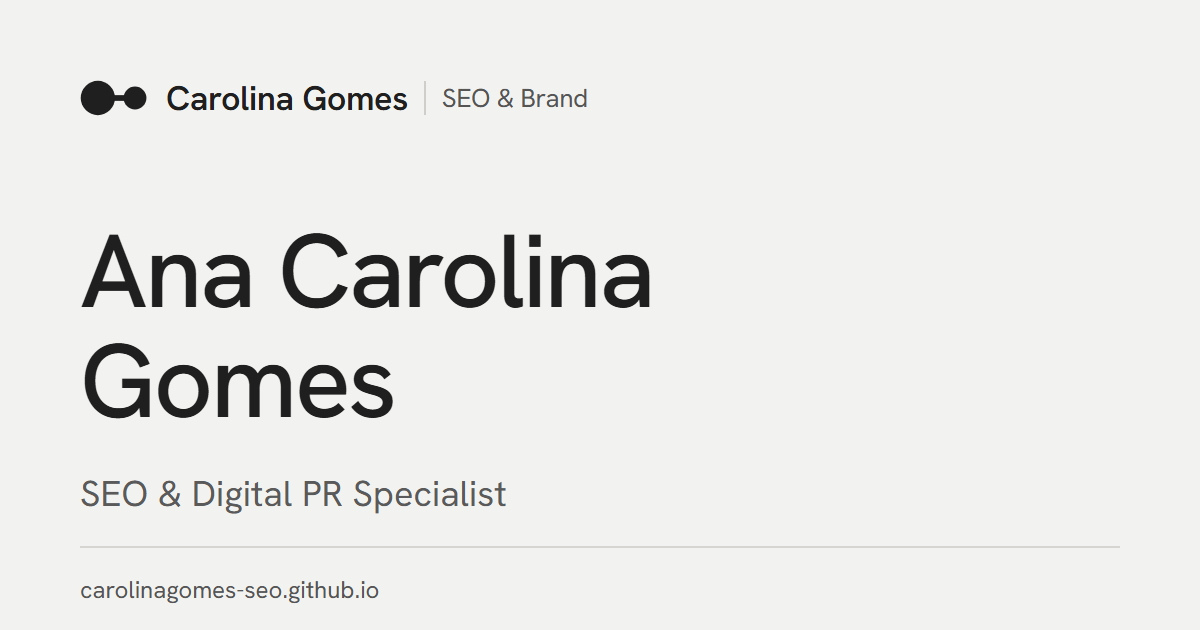
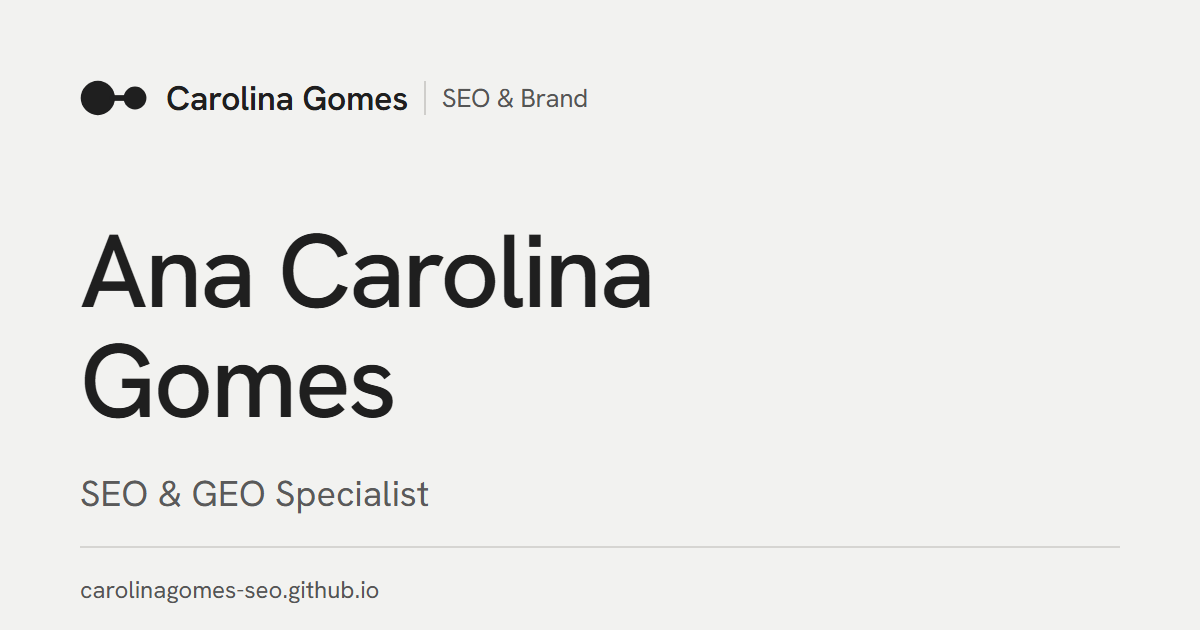
Use a stable profile photo URL in the schema and one job title
- Person.image points to /ana-carolina-gomes.jpg (copy in public/)
  instead of the hashed /_astro/ path
- "SEO & GEO Specialist" everywhere it describes the author: Home reads
  AUTHOR.jobTitle, share image subtitle and alt text updated

Changed region(s): [[0.1542, 0.754, 0.4317, 0.8143]]

diff --git a/src/utils/schema.ts b/src/utils/schema.ts
@@ -1,5 +1,4 @@
 // Helpers for the JSON-LD graph printed by SchemaGraph.astro
-import { getImage } from 'astro:assets';
 import { AUTHOR, BLOG_ID, EDUCATION, EXPERIENCE, LANGUAGES, PERSON_ID, WEBSITE_ID } from '../data/author';
 
 const FALLBACK_SITE = new URL('https://carolinagomes-seo.github.io');
@@ -68,7 +67,6 @@ export const caseStudiesNode = (site: URL | undefined) =>
 
 // The full Person entity (printed once on every page by SchemaGraph.astro)
 export async function personNode(site: URL | undefined) {
-	const photo = await getImage({ src: AUTHOR.photo, width: 800, height: 800, format: 'jpg' });
 	const current = EXPERIENCE.find((job) => job.dates.endsWith('Present'));
 	return {
 		'@type': 'Person',
@@ -76,7 +74,7 @@ export async function personNode(site: URL | undefined) {
 		name: AUTHOR.name,
 		alternateName: AUTHOR.alternateName,
 		url: absolute(site, AUTHOR.aboutUrl),
-		image: absolute(site, photo.src),
+		image: absolute(site, AUTHOR.photoUrl),
 		jobTitle: AUTHOR.jobTitle,
 		description: AUTHOR.shortBio,
 		address: { '@type': 'PostalAddress', ...AUTHOR.address },

diff --git a/src/data/author.ts b/src/data/author.ts
@@ -12,6 +12,8 @@ export const AUTHOR = {
 	shortBio:
 		'Almost four years in SEO across content, on-page and off-page, mostly in international, high-competition markets, with a focus on link building and Digital PR.',
 	photo: portrait,
+	// Stable copy of the photo in public/ for the Person schema (the /_astro/ path changes with each build)
+	photoUrl: '/ana-carolina-gomes.jpg',
 	aboutUrl: '/about/',
 	caseStudiesUrl: '/case-studies/',
 	email: 'contato.carolpss@gmail.com',
